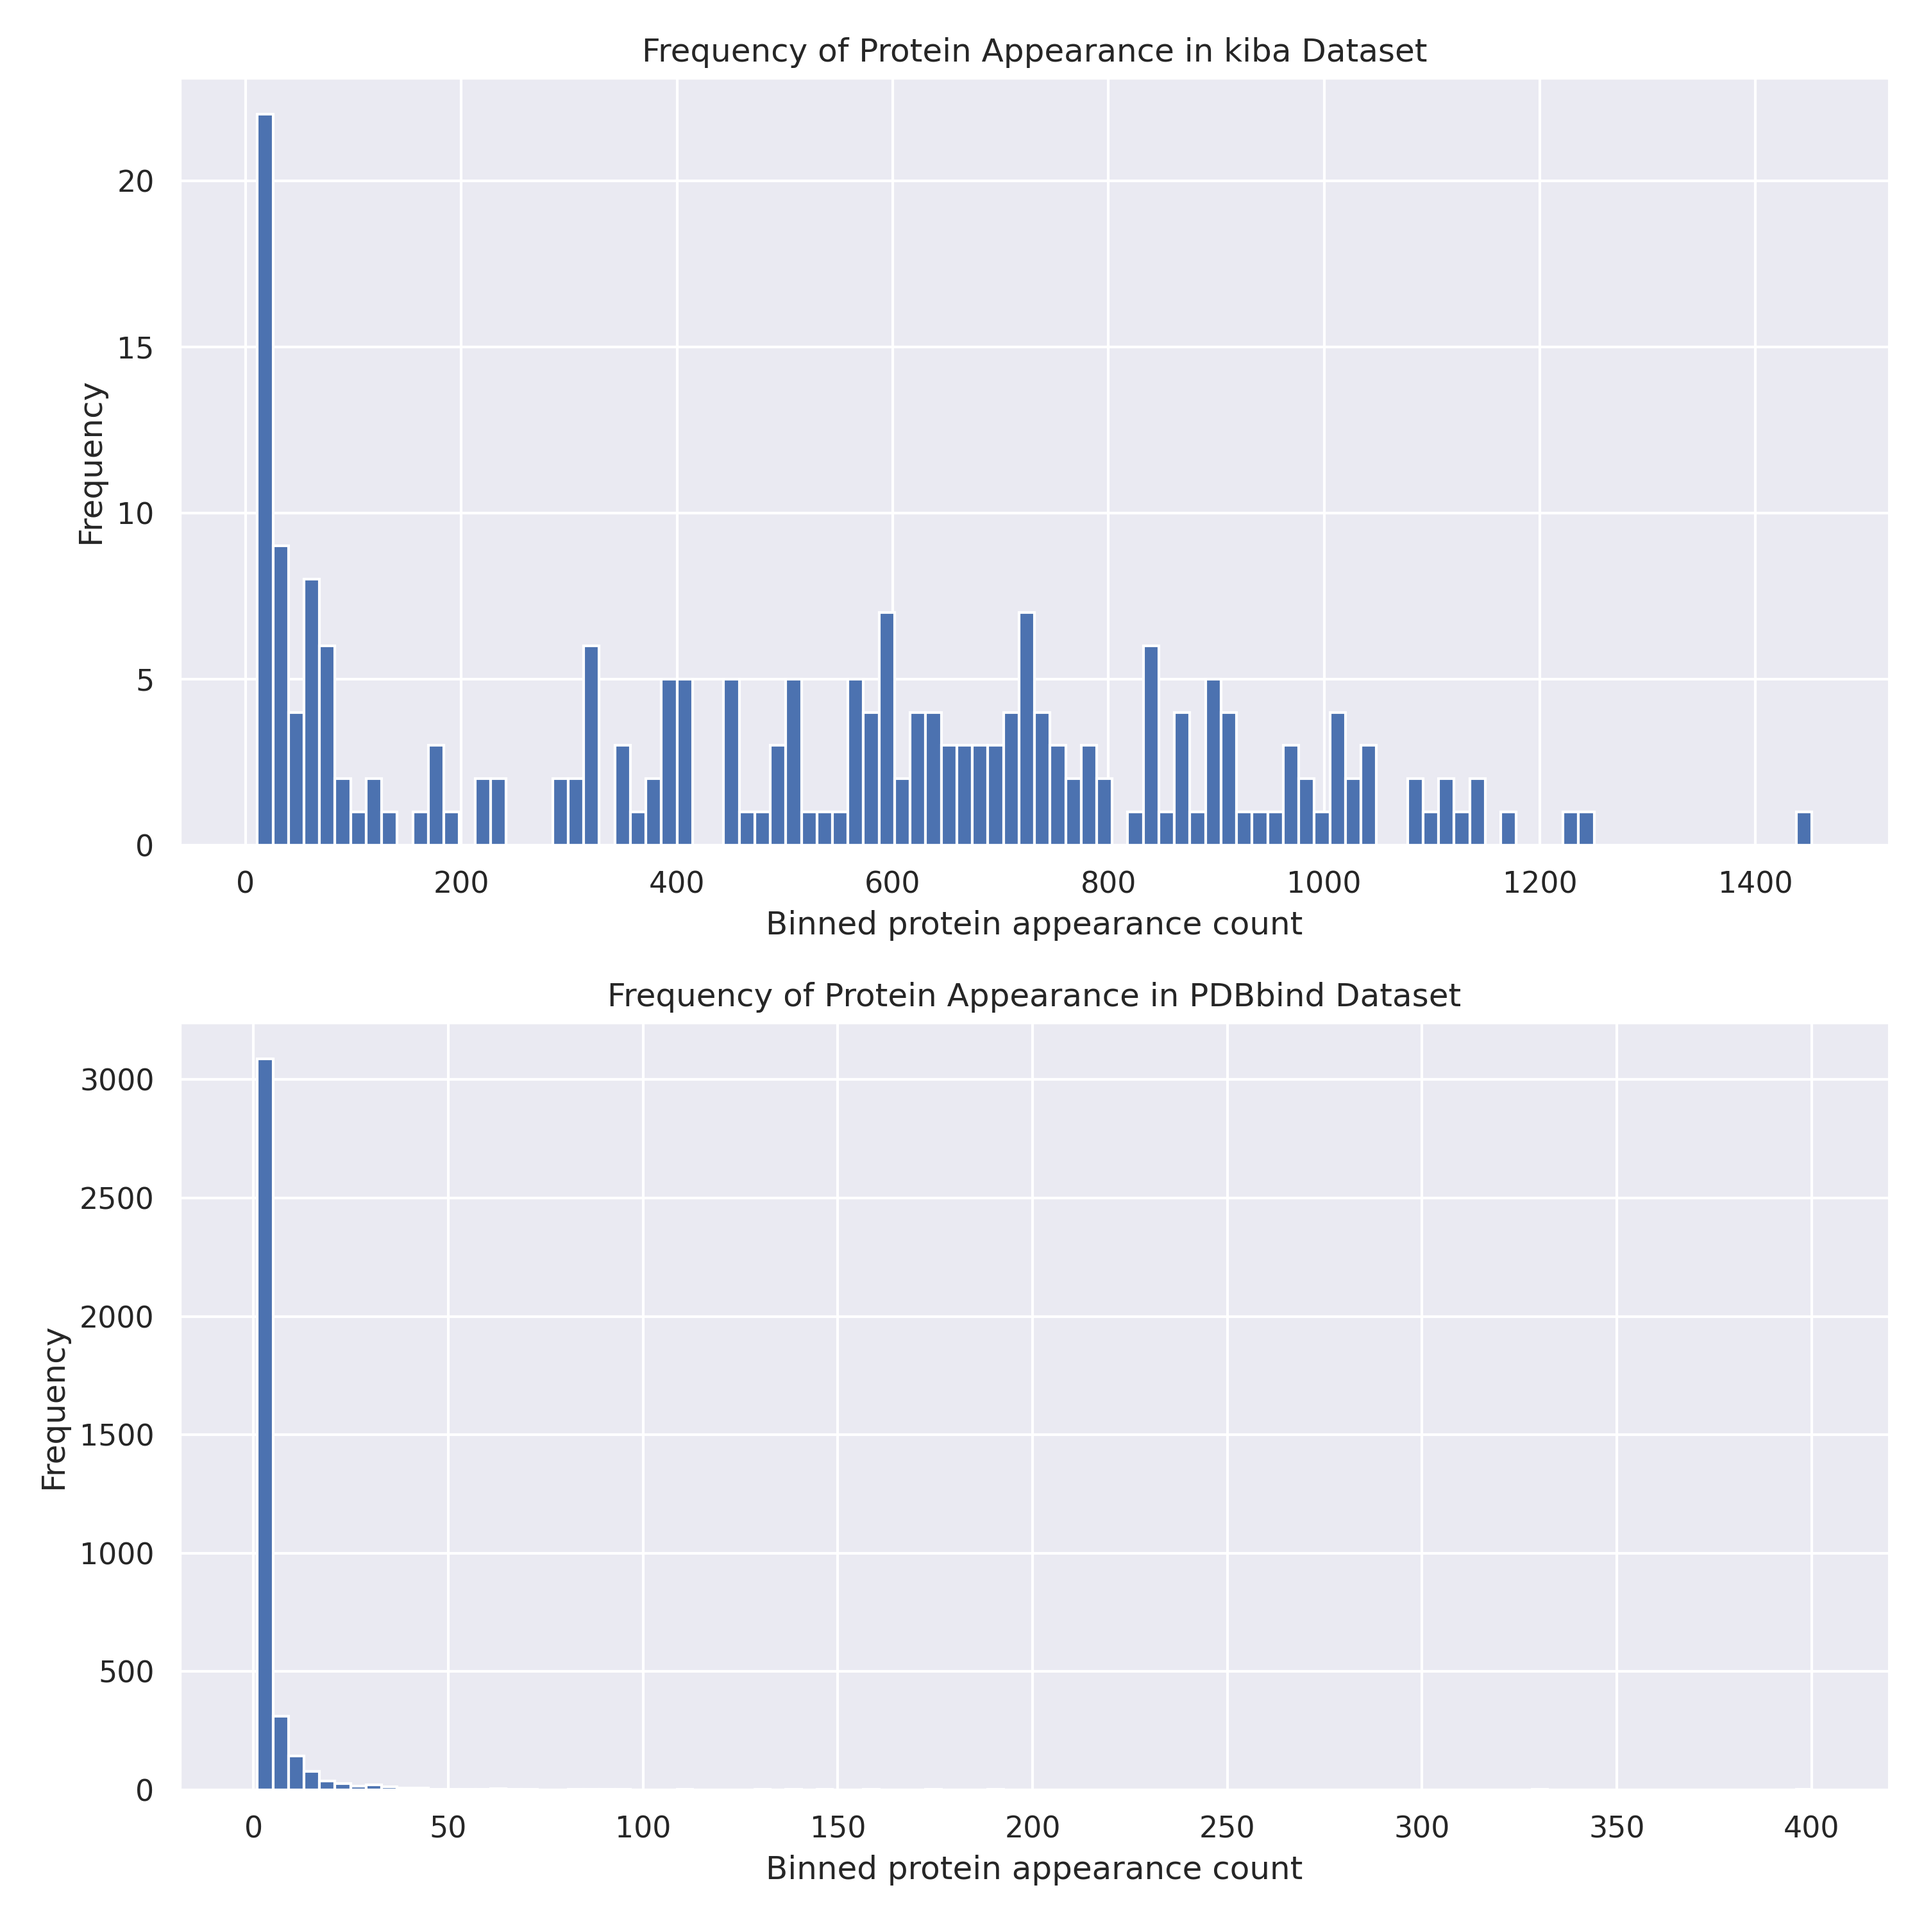
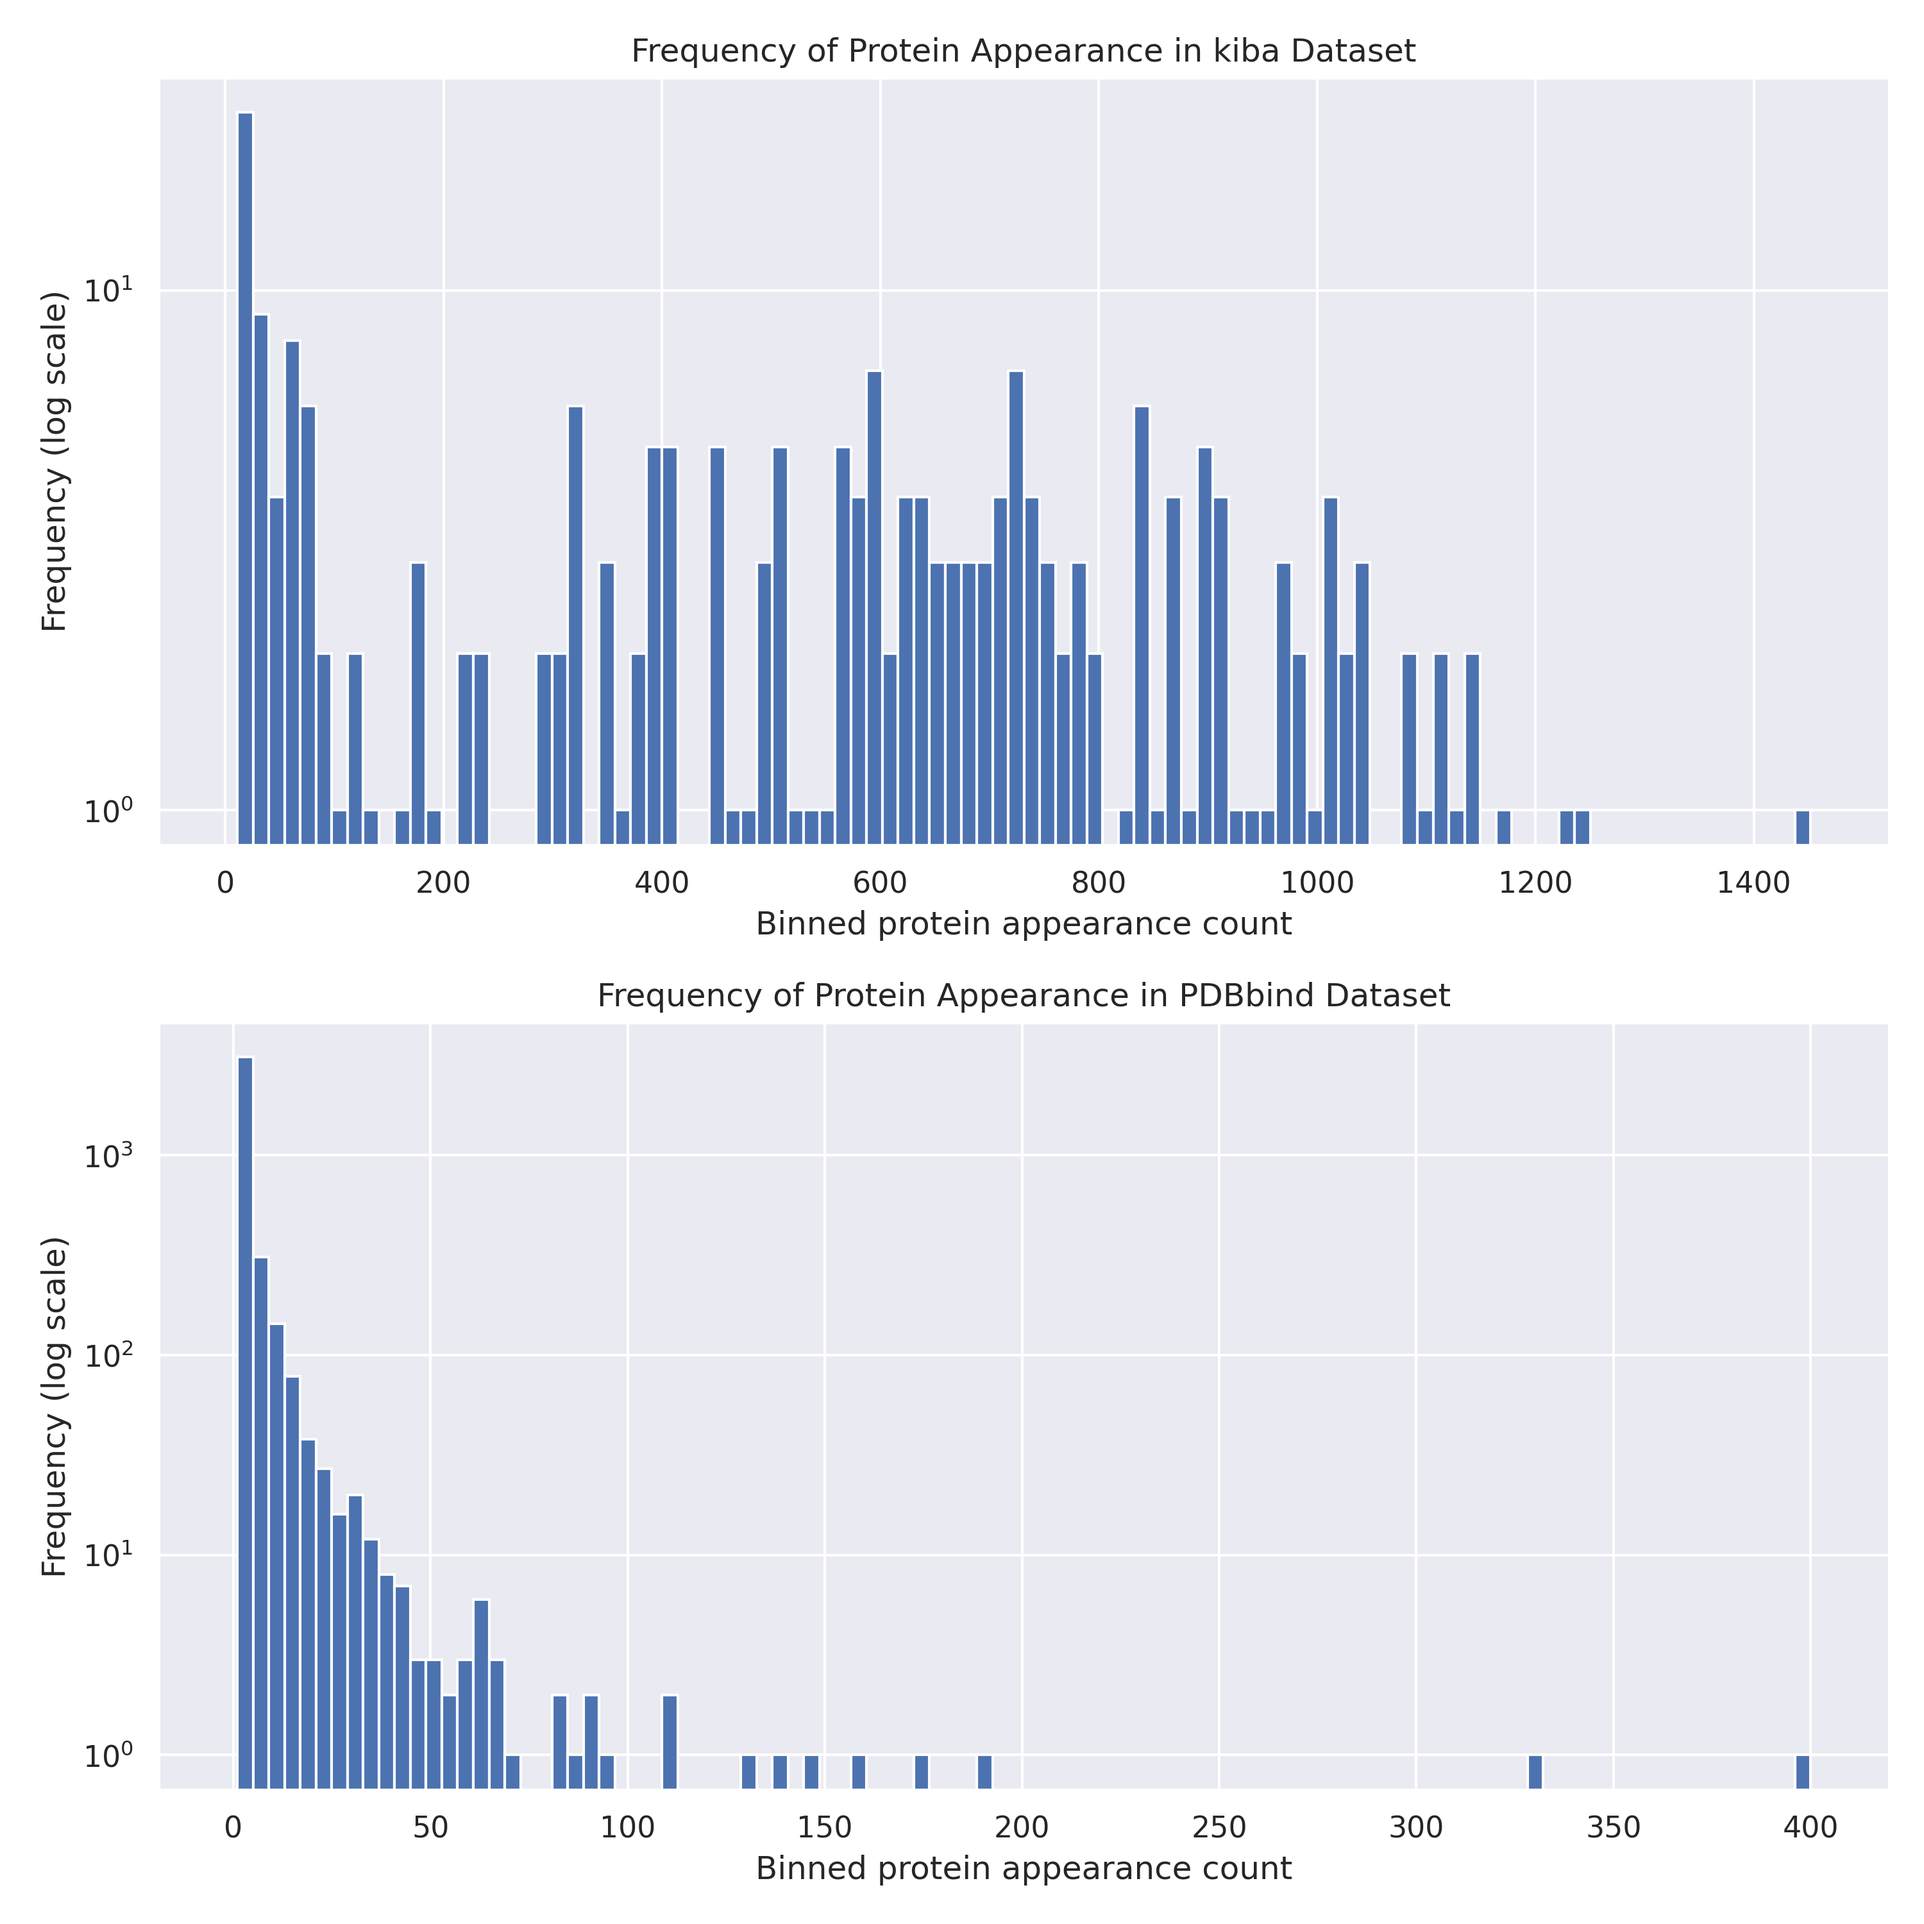
fix(figures): fig6 log scale

diff --git a/src/data_analysis/figures.py b/src/data_analysis/figures.py
@@ -272,12 +272,15 @@ def fig6_protein_appearance(datasets=['kiba', 'PDBbind'], show=False):
 
         # Get counts for each protein in the dataset
         cntr = dataset.get_protein_counts()
-
+        
         # Plot as histogram
         axs[i].hist(cntr.values(), bins=100)
+        
+        axs[i].set_yscale('log')
+                
         axs[i].set_title(f'Frequency of Protein Appearance in {data} Dataset')
         axs[i].set_xlabel('Binned protein appearance count')
-        axs[i].set_ylabel('Frequency')
+        axs[i].set_ylabel('Frequency (log scale)')
     # Adjust layout to prevent clipping of titles
     plt.tight_layout()
     
